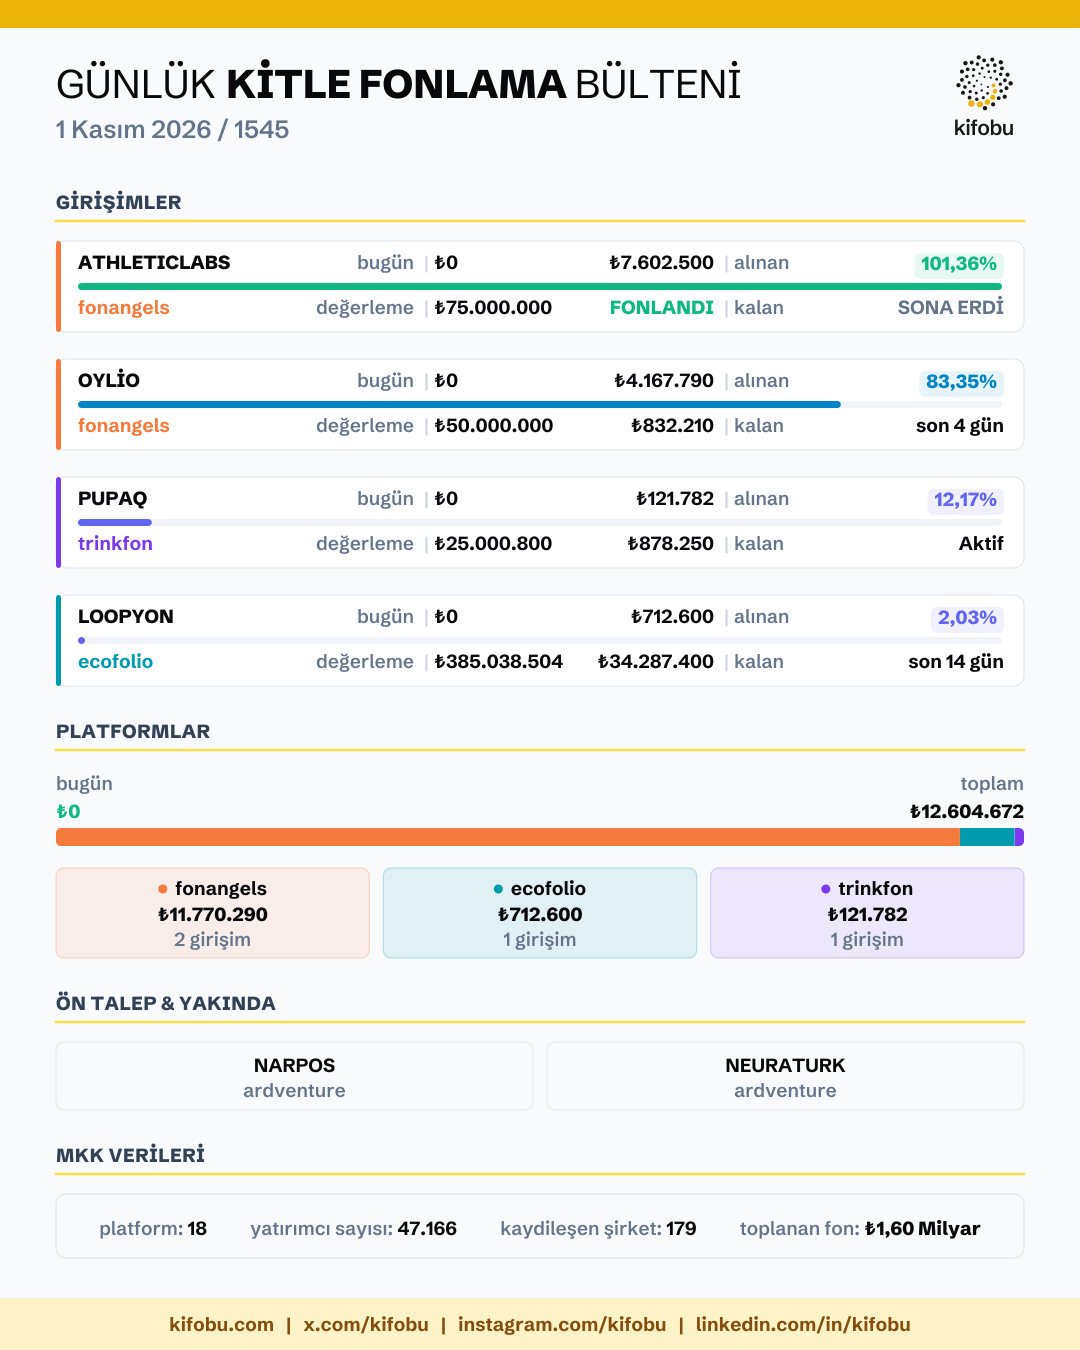
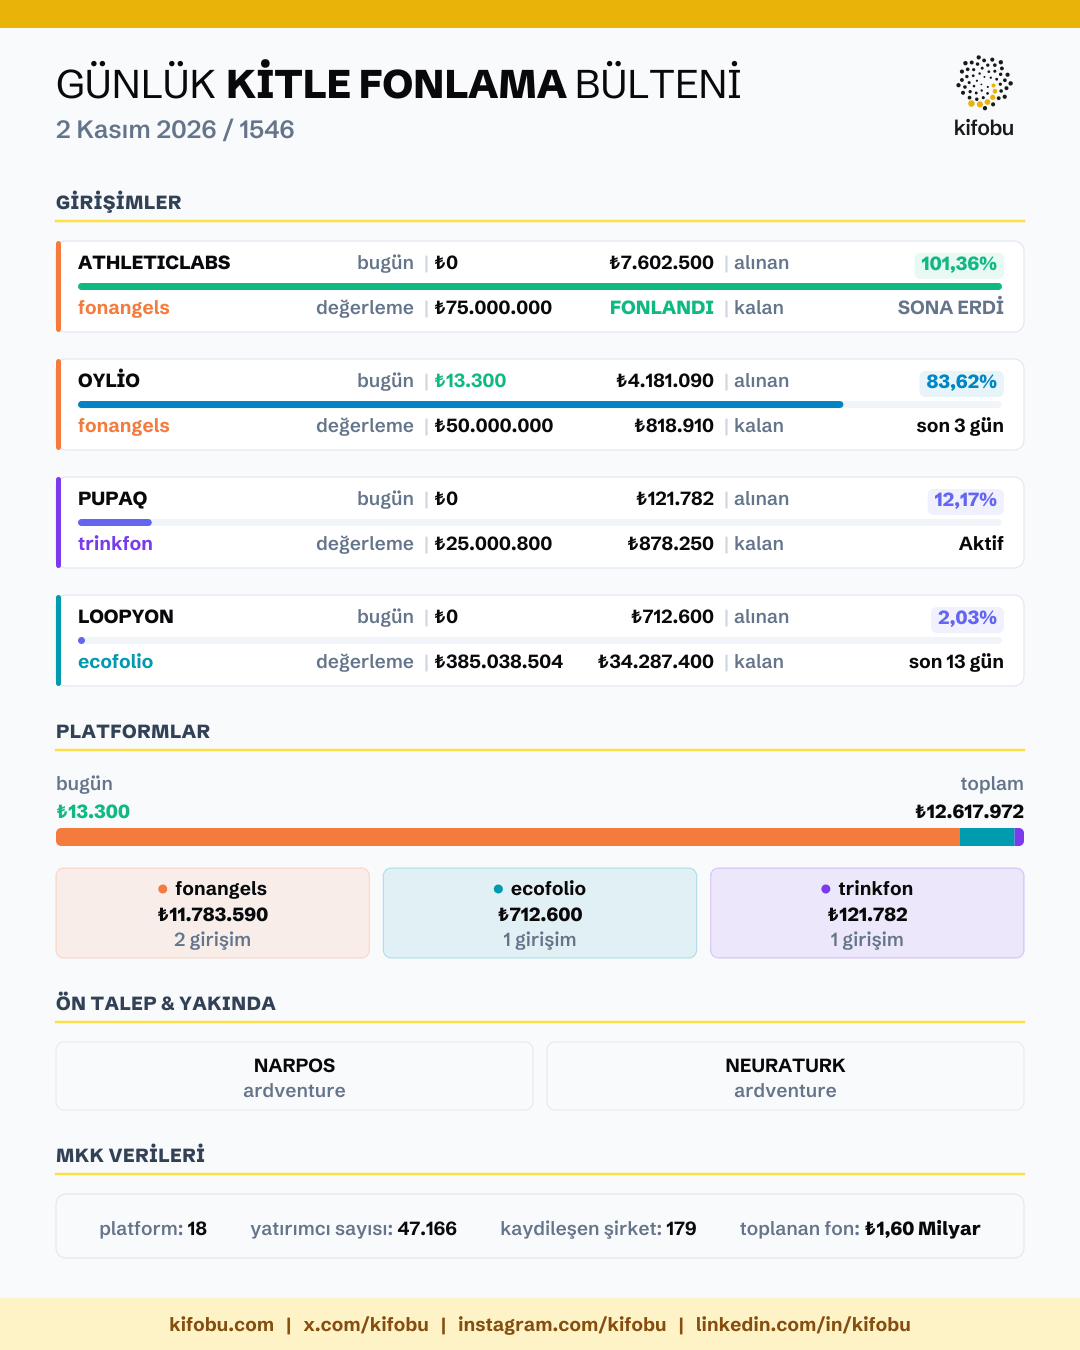
chore(bulten): otomatik bülten ve infografik görselleri güncellendi [skip ci]

diff --git a/src/data/bulten.ts b/src/data/bulten.ts
@@ -1,7 +1,7 @@
 /**
  * Günlük kitle fonlama bülteni verisi ("Bugün" tablosu).
  * Otomatik Bot tarafından oluşturulmuştur.
- * Son güncelleme: 2026-11-02T11:01:20.379Z
+ * Son güncelleme: 2026-11-02T15:01:20.534Z
  */
 export interface Girisim {
   ad: string;
@@ -49,11 +49,11 @@ export const BULTEN = {
     {
         "ad": "OYLİO",
         "platform": "fonangels",
-        "bugun": 11800,
-        "alinan": 4179590,
-        "kalan": 820410,
+        "bugun": 13300,
+        "alinan": 4181090,
+        "kalan": 818910,
         "degerleme": 50000000,
-        "yuzde": 83.59,
+        "yuzde": 83.62,
         "durum": "son 3 gün",
         "url": "https://fonangels.com/kampanyalar/projehakkinda/oylio?pid=1778"
     },
@@ -81,12 +81,12 @@ export const BULTEN = {
     }
 ] as Girisim[],
   platformlar: {
-    bugun: 11800,
-    toplam: 12616472,
+    bugun: 13300,
+    toplam: 12617972,
     liste: [
     {
         "ad": "fonangels",
-        "toplam": 11782090,
+        "toplam": 11783590,
         "girisim": 2,
         "renk": "#f47b3d",
         "url": "https://fonangels.com"
